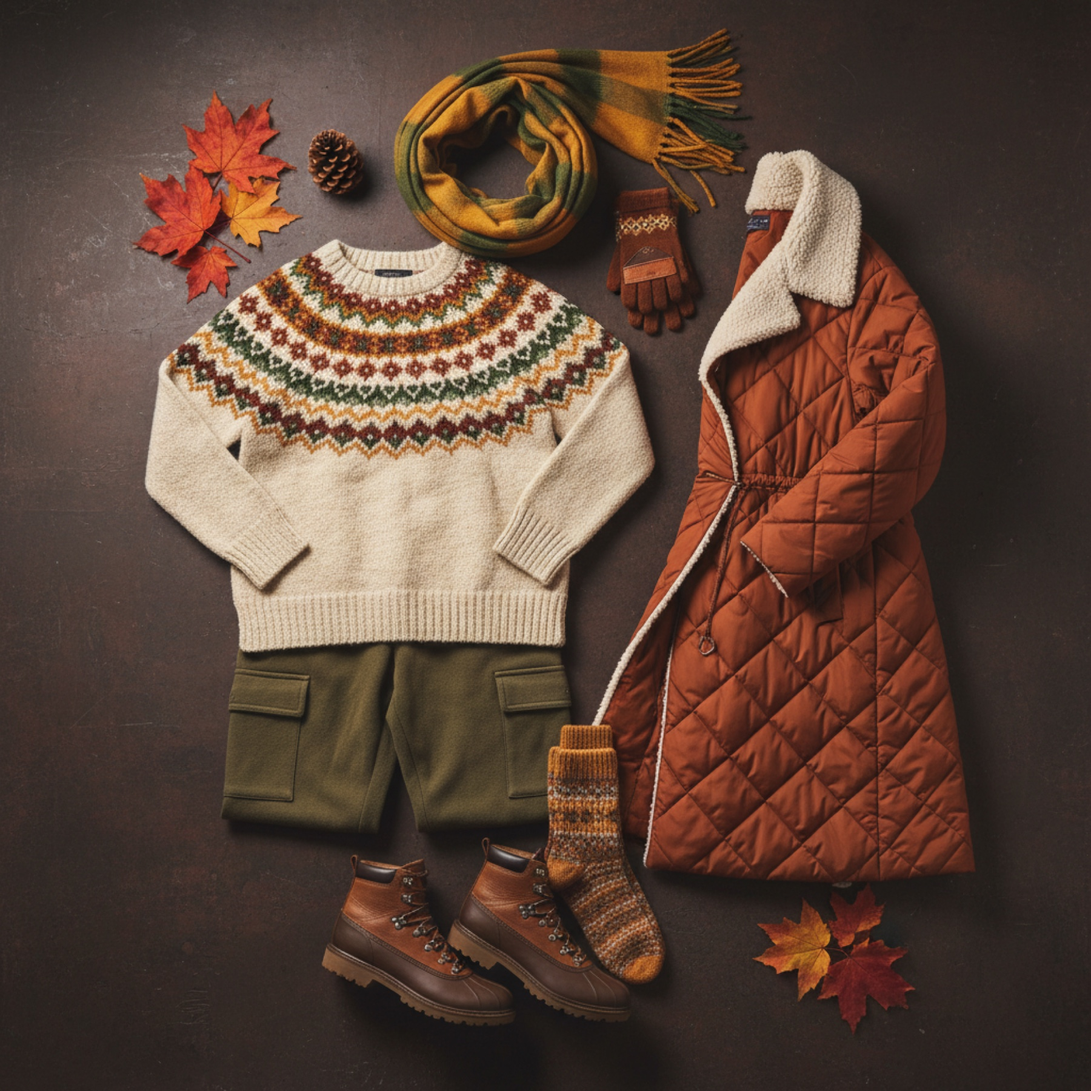
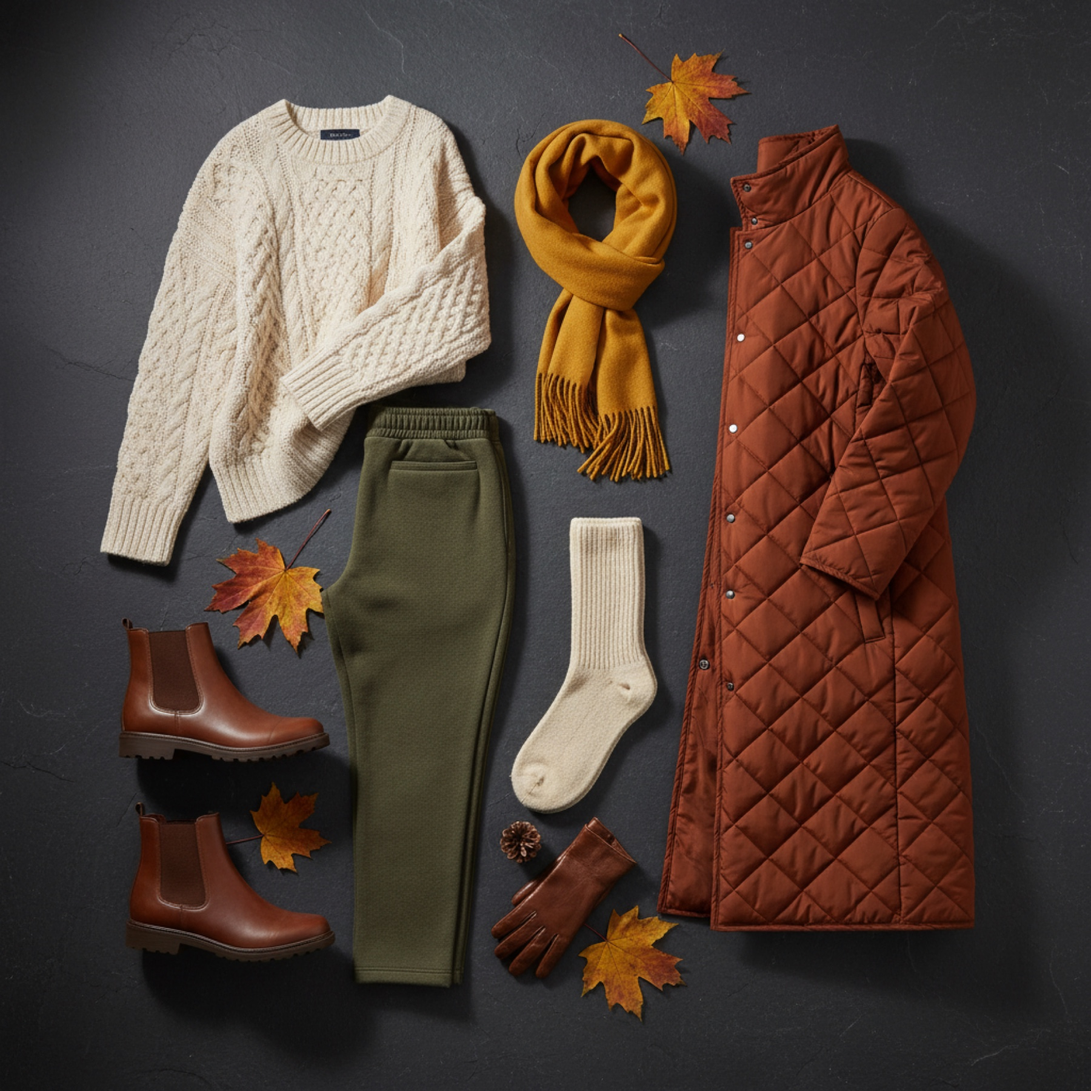
Tone down Haydee's alternate boards
Rebuilt the six alternates as elegant-with-a-soft-lean rather than full boho: fluid silk and drape over her tailored base, no fringe, blanket coats, crochet or folk pattern. Piece lists and mood chips updated to match, now labeled Softer Take.

diff --git a/adriel-birthday/data.js b/adriel-birthday/data.js
@@ -510,36 +510,36 @@ var TRIP = {
       note:'Comfortable and put-together for the Oratory and the flight home.',
       pieces:['Ponte-knit joggers','Oversized cashmere-blend sweater','Packable puffer vest','Slip-on sneakers','Travel scarf'] },
 
-    /* ----- Haydee: boho chic alternates ----- */
-    { who:'Haydee', day:'Tue 10/20', icon:'bi-moon-stars', mood:'Boho Night', title:'Church-Wellesley Village',
+    /* ----- Haydee: softer, relaxed alternates ----- */
+    { who:'Haydee', day:'Tue 10/20', icon:'bi-moon-stars', mood:'Softer Take', title:'Church-Wellesley Village',
       img:'outfit-boards/web/b-tue-village.jpg',
-      note:'Boho take on the same night — flowing, jewel-toned, easy to dance in.',
-      pieces:['Wine velvet wide-leg palazzo trousers','Gold-embroidered bell-sleeve blouse','Fringed paisley kimono duster','Tooled-leather heeled boots','Layered brass + amber necklaces'] },
+      note:'Same night, softer lines — fluid silk instead of structure.',
+      pieces:['Wine silk wide-leg trousers','Bronze silk blouse, gathered sleeve','Deep teal merino wrap cardigan','Sleek block-heel boots','Long gold pendant + small hoops'] },
 
-    { who:'Haydee', day:'Wed 10/21', icon:'bi-cake2', mood:'Boho Formal', title:'Adriel\'s Birthday Dinner',
+    { who:'Haydee', day:'Wed 10/21', icon:'bi-cake2', mood:'Softer Take', title:'Adriel\'s Birthday Dinner',
       img:'outfit-boards/web/b-wed-birthday-dinner.jpg',
-      note:'Same dress-up night, softer and more romantic than the tailored option.',
-      pieces:['Midnight-plum velvet maxi dress','Embroidered rust + gold fringed shawl','Braided antique-gold waist belt','Pointed suede low-heel boots','Filigree gold collar necklace'] },
+      note:'The dress-up night, done with drape instead of tailoring.',
+      pieces:['Plum silk-jersey column dress','Taupe cashmere wrap','Slim antique-gold chain belt','Pointed suede low-heel boots','Gold pendant + amber drops'] },
 
-    { who:'Haydee', day:'Thu 10/22', icon:'bi-camera2', mood:'Boho Portrait', title:'Monography Photo Studio',
+    { who:'Haydee', day:'Thu 10/22', icon:'bi-camera2', mood:'Softer Take', title:'Monography Photo Studio',
       img:'outfit-boards/web/b-thu-photostudio.jpg',
-      note:'Warm earth tones and soft movement — reads beautifully on camera.',
-      pieces:['Terracotta tiered linen midi dress','Cream fringed crochet cardigan','Wide woven tan leather belt','Camel suede ankle boots','Amber teardrop pendant + brass bangles'] },
+      note:'Warm solid earth tones with a little movement — reads well on camera.',
+      pieces:['Terracotta fine-knit A-line midi dress','Long draped cream cardigan','Slim tan leather belt','Camel suede ankle boots','Amber teardrop pendant'] },
 
-    { who:'Haydee', day:'Thu 10/22', icon:'bi-bank', mood:'Boho Layers', title:'MMFA + Old Montreal + Little Italy',
+    { who:'Haydee', day:'Thu 10/22', icon:'bi-bank', mood:'Softer Take', title:'MMFA + Old Montreal + Little Italy',
       img:'outfit-boards/web/b-thu-oldmontreal.jpg',
-      note:'Cobblestone-friendly boots under a long skirt and a big blanket wrap.',
-      pieces:['Tiered olive corduroy skirt','Mustard waffle-knit henley','Kilim-print blanket wrap coat','Brown lace-up leather boots','Fringed suede crossbody'] },
+      note:'A long skirt instead of denim, still built for cobblestones.',
+      pieces:['Olive corduroy A-line skirt','Mustard merino turtleneck','Camel wool wrap coat, tie belt','Brown leather ankle boots','Rust wool scarf + suede crossbody'] },
 
-    { who:'Haydee', day:'Thu 10/22', icon:'bi-cup-straw', mood:'Boho Evening', title:'Mile End + Plateau Bar Hop',
+    { who:'Haydee', day:'Thu 10/22', icon:'bi-cup-straw', mood:'Softer Take', title:'Mile End + Plateau Bar Hop',
       img:'outfit-boards/web/b-thu-mileend.jpg',
-      note:'The looser, more relaxed version of the bar-hop night.',
-      pieces:['Flared dark indigo denim','Rust velvet embroidered peasant blouse','Caramel shearling-trimmed suede jacket','Western heeled ankle boots','Layered beaded + brass necklaces'] },
+      note:'Looser and warmer for the bar-hop night.',
+      pieces:['Dark indigo straight-leg denim','Rust velvet blouse','Caramel suede jacket, shearling collar','Sleek leather ankle boots','Long fine gold chain'] },
 
-    { who:'Haydee', day:'Fri 10/23', icon:'bi-tree', mood:'Boho Outdoors', title:'Botanical Garden + Laurentians',
+    { who:'Haydee', day:'Fri 10/23', icon:'bi-tree', mood:'Softer Take', title:'Botanical Garden + Laurentians',
       img:'outfit-boards/web/b-fri-laurentians.jpg',
-      note:'Just as warm for the gondola, with more pattern against the foliage.',
-      pieces:['Cream fair-isle folk sweater','Fleece-lined olive utility trousers','Rust quilted coat with shearling collar','Waterproof leather hiking boots','Mustard + forest woven wool scarf'] },
+      note:'Just as warm for the gondola, a bit more relaxed in the shape.',
+      pieces:['Cream chunky cable-knit sweater','Fleece-lined olive trousers','Rust quilted long coat','Waterproof leather boots','Mustard wool scarf + leather gloves'] },
 
     /* ===== JESSICA ===== */
     { who:'Jessica', day:'Tue 10/20', icon:'bi-airplane', mood:'Travel', title:'Flight Day — AUS to YYZ',

diff --git a/adriel-birthday/index.html b/adriel-birthday/index.html
@@ -8,7 +8,7 @@
 <link href="https://fonts.googleapis.com/css2?family=Cormorant+Garamond:ital,wght@0,300;0,400;0,500;0,600;0,700;1,400&family=DM+Sans:wght@300;400;500;600;700&family=Playfair+Display:ital,wght@0,400;0,700;1,400&display=swap" rel="stylesheet">
 <link rel="stylesheet" href="https://unpkg.com/leaflet@1.9.4/dist/leaflet.css"/>
 <link rel="stylesheet" href="https://cdn.jsdelivr.net/npm/bootstrap-icons@1.11.3/font/bootstrap-icons.min.css"/>
-<link rel="stylesheet" href="./style.css?v=20260929e"/>
+<link rel="stylesheet" href="./style.css?v=20260929f"/>
 </head>
 <body>
 <!-- Loading Screen -->
@@ -87,9 +87,9 @@
 </div>
 
 <script src="https://unpkg.com/leaflet@1.9.4/dist/leaflet.js"></script>
-<script src="./data.js?v=20260929e"></script>
-<script src="./app.js?v=20260929e"></script>
-<script src="./map.js?v=20260929e"></script>
-<script src="./sync.js?v=20260929e"></script>
+<script src="./data.js?v=20260929f"></script>
+<script src="./app.js?v=20260929f"></script>
+<script src="./map.js?v=20260929f"></script>
+<script src="./sync.js?v=20260929f"></script>
 </body>
 </html>
